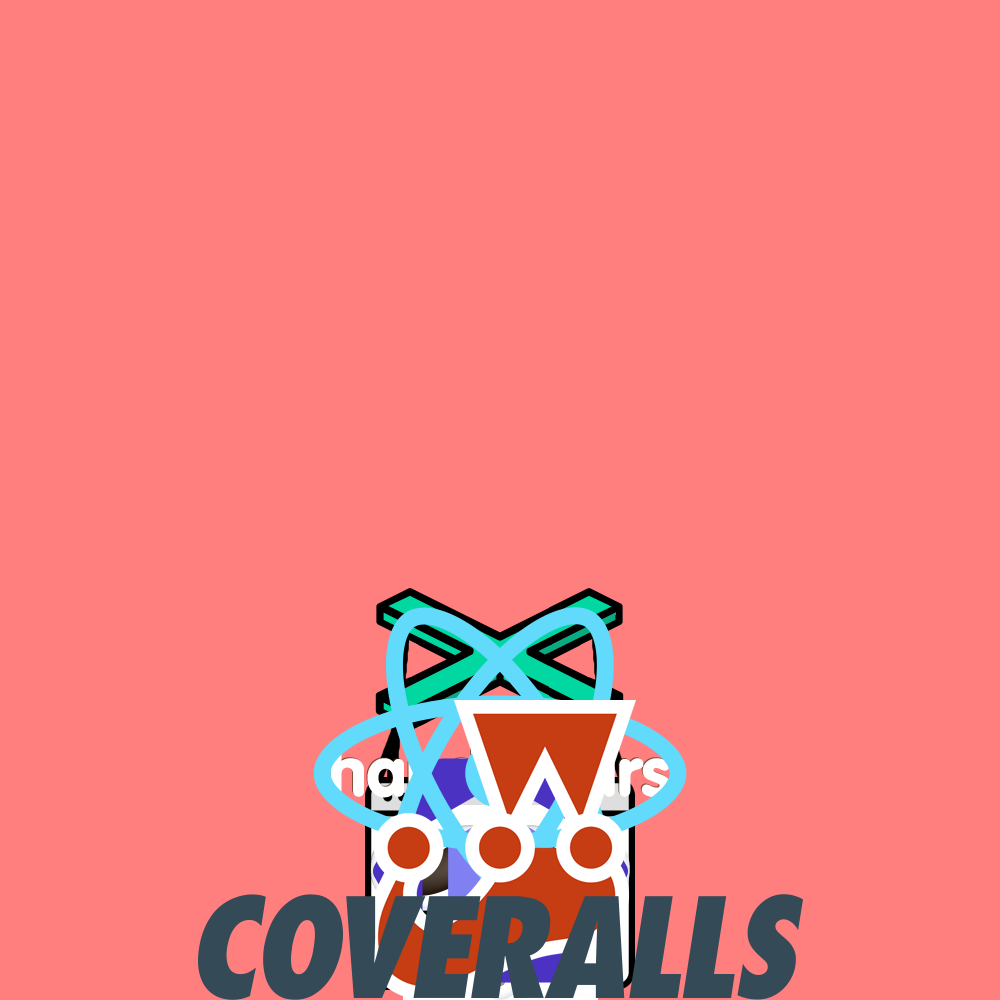
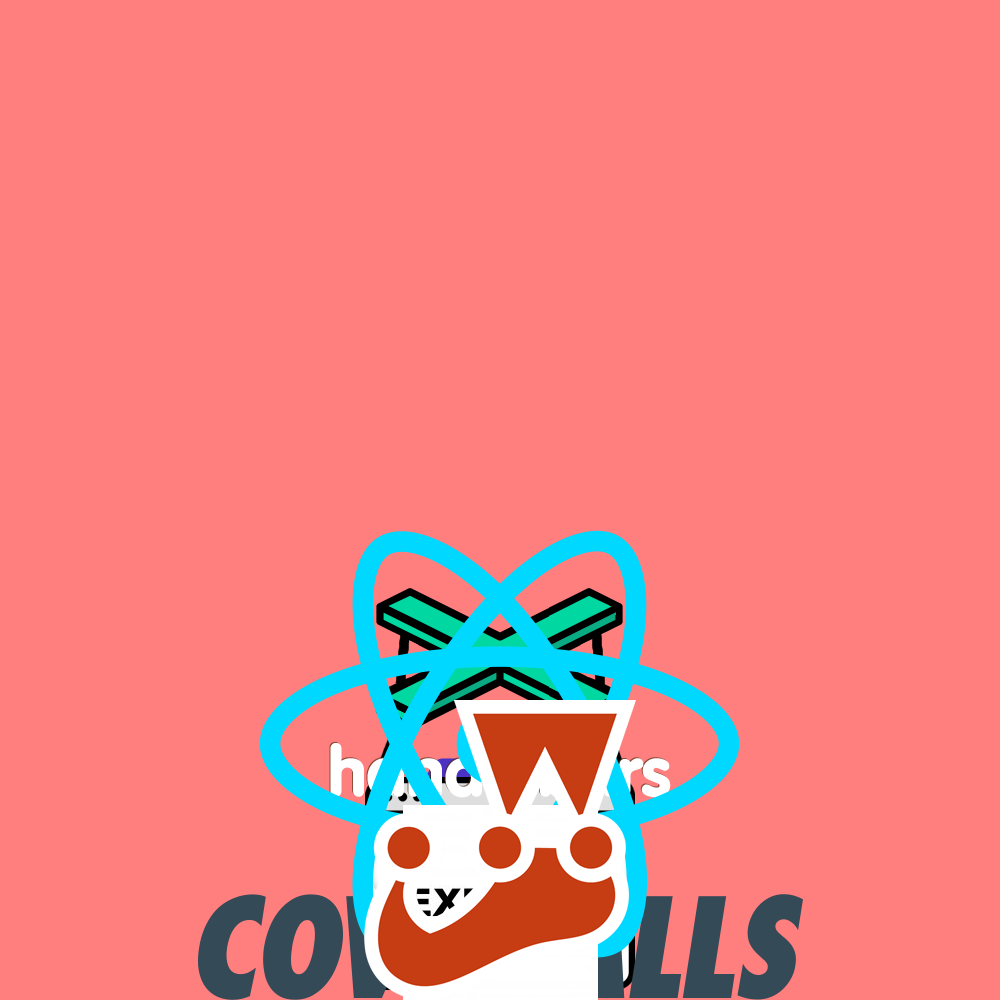
Added a composite image class

Changed region(s): [[0.248, 0.527, 0.744, 1.0], [0.527, 0.775, 0.558, 0.868]]

diff --git a/src/index.js b/src/index.js
@@ -4,6 +4,7 @@ const fetch = require('node-fetch');
 const fs = require('fs');
 const path = require('path');
 const Image = require('./image');
+const CompositeImage = require('./composite-image');
 
 async function getLogoLinkFromPackageName(packageName) {
   const images = await imagefinder({
@@ -19,11 +20,9 @@ async function getCompositeImage(listOfPackages) {
   await Promise.all(
     listOfPackages.map(async (currentPackage) => {
       const imageURL = await getLogoLinkFromPackageName(currentPackage);
+      const currentImage = await new Image(imageURL);
 
-      const imageRes = await fetch(imageURL);
-      const imageBuffer = await imageRes.buffer();
-
-      images.push(await new Image(imageBuffer));
+      images.push(currentImage);
     }),
   );
 
@@ -32,17 +31,9 @@ async function getCompositeImage(listOfPackages) {
     gravity: 'south',
   }));
 
-  return await sharp({
-    create: {
-      width: 1000,
-      height: 1000,
-      channels: 4,
-      background: { r: 255, g: 0, b: 0, alpha: 0.5 },
-    },
-  })
-    .composite(imageObjects)
-    .png()
-    .toBuffer();
+  const composite = await new CompositeImage(imageObjects, {});
+
+  return await composite.buffer();
 }
 
 module.exports = { getLogoLinkFromPackageName, getCompositeImage };

diff --git a/src/image.js b/src/image.js
@@ -1,10 +1,13 @@
 const sharp = require('sharp');
+const fetch = require('node-fetch');
 
 class Image {
-  constructor(buffer) {
+  constructor(imageURL) {
     return (async () => {
-      this.buffer = buffer;
-      this.sharp = await sharp(buffer);
+      const imageRes = await fetch(imageURL);
+
+      this.buffer = await imageRes.buffer();
+      this.sharp = await sharp(this.buffer);
       this.metadata = await this.sharp.metadata();
       this.width = this.metadata.width;
       this.height = this.metadata.height;

diff --git a/src/composite-image.js b/src/composite-image.js
@@ -1,0 +1,26 @@
+const sharp = require('sharp');
+
+class CompositeImage {
+  constructor(images, ops) {
+    return (async () => {
+      this.sharp = await sharp({
+        create: {
+          width: 1000,
+          height: 1000,
+          channels: 4,
+          background: { r: 255, g: 0, b: 0, alpha: 0.5 },
+        },
+      })
+        .composite(images)
+        .png();
+
+      return this;
+    })();
+  }
+
+  async buffer() {
+    return await this.sharp.toBuffer();
+  }
+}
+
+module.exports = CompositeImage;
